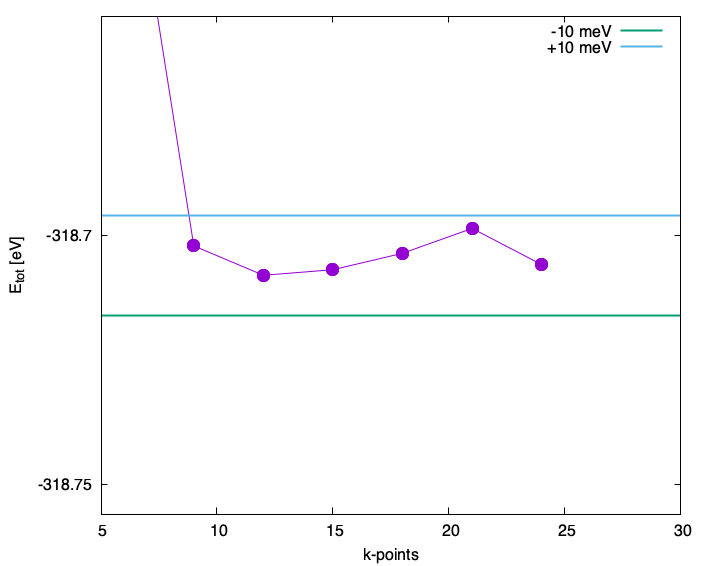
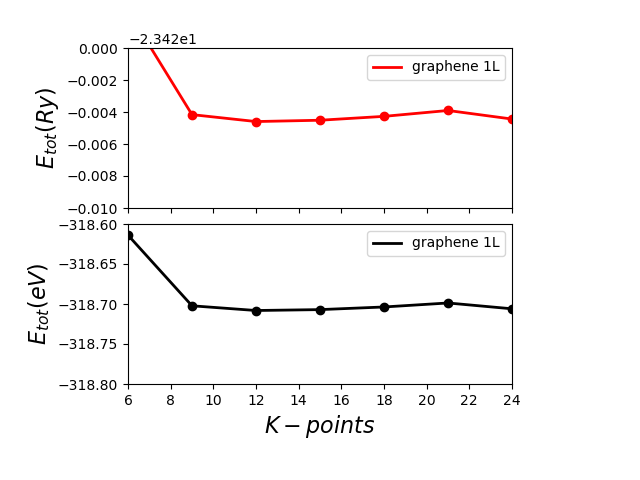
varie

diff --git a/C-1L/convergence/PBE/kpt/Scripts/econv_kpt.py b/C-1L/convergence/PBE/kpt/Scripts/econv_kpt.py
@@ -25,10 +25,10 @@ axs[1].plot(etot_vs_ecut[:,0],etot_vs_ecut[:,1]*13.6057039763,linewidth=2,color=
 axs[1].scatter(etot_vs_ecut[:,0],etot_vs_ecut[:,1]*13.6057039763,color='k')
 axs[1].legend(loc="upper right")
 axs[1].set_xlabel('$ K-points $',fontsize=16)
-axs[0].set_xlim(6,30)
-axs[1].set_xlim(6,30)
-axs[0].set_ylim(-23.42,-23.4)
-axs[1].set_ylim(-318.6,-318.5)
+axs[0].set_xlim(6,24)
+axs[1].set_xlim(6,24)
+axs[0].set_ylim(-23.430,-23.420)
+axs[1].set_ylim(-318.800,-318.600)
 
 plt.savefig('Etot_vs_kpt.png', format='png')
 plt.show()
